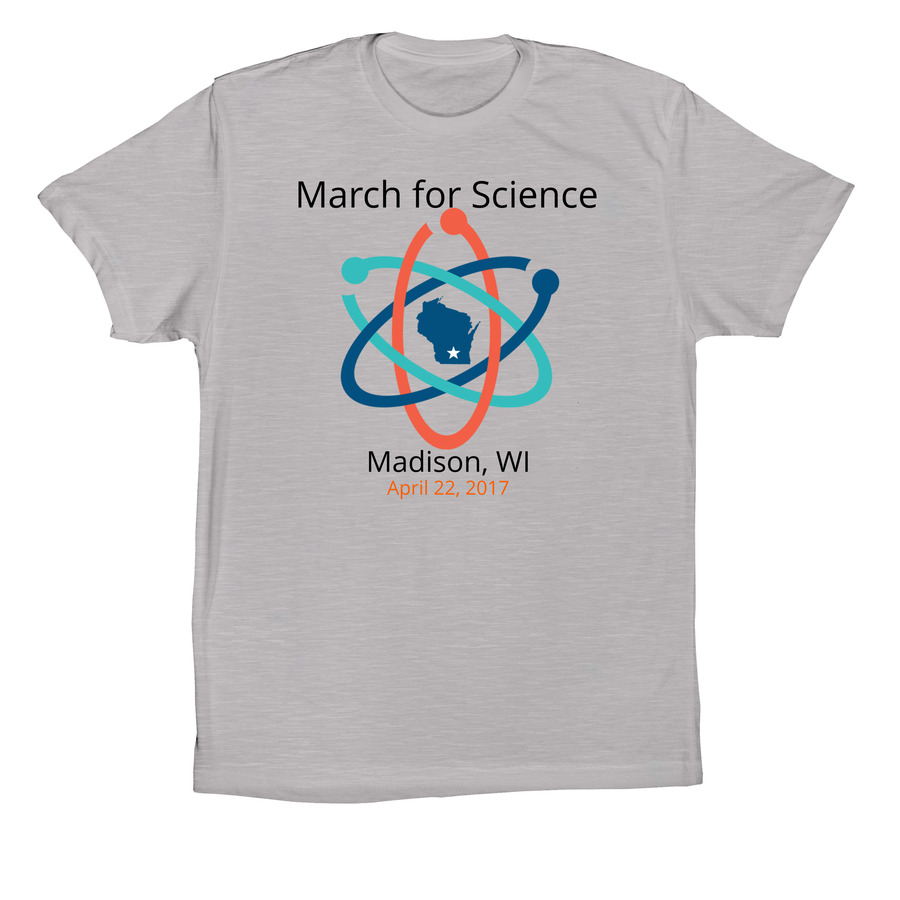
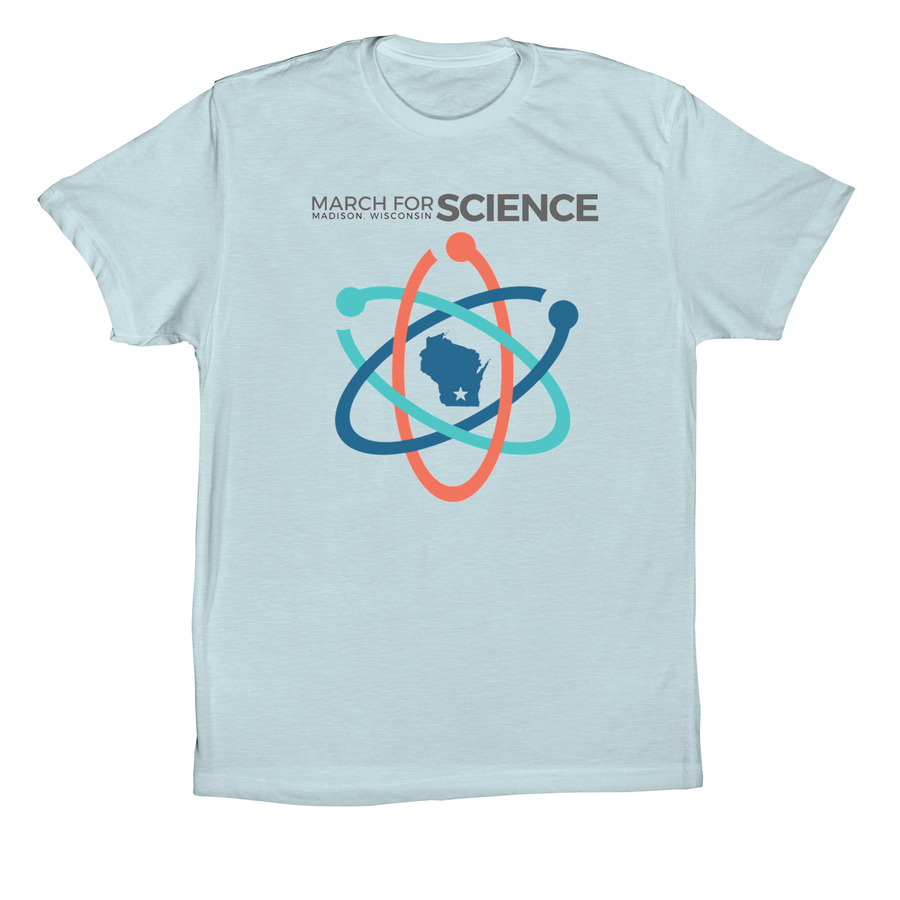
enable donation/merchandise

diff --git a/_includes/how_to_support.html b/_includes/how_to_support.html
@@ -48,7 +48,7 @@ The Madison March for Science obtained fiscal sponsorship through the <a target=
                 <h5 class="text-faded" style="color:#4d4d4f">
                 Official March for Science t-shirts may be purchased from Bonfire. The proceeds from sales of these shirts (minus the cost of the shirt and printing) go directly towards expenses associated with the march.
                 </h5>
-                <a target="_blank" href="https://www.bonfire.com/march-for-science-madison-vol3/">
+                <a target="_blank" href="https://www.bonfire.com/sciencemarchmsn/">
                 <img src="img/bonfire_shirt.jpg" style="display:block; margin: auto; width:35%; vertical-align:middle; padding: 20px">
                 </a>
                 <div></div>

diff --git a/_includes/nav.html b/_includes/nav.html
@@ -15,6 +15,9 @@
         <div class="collapse navbar-collapse" id="bs-example-navbar-collapse-1">
             <ul class="nav navbar-nav navbar-right">
                 <li>
+                    <a class="page-scroll" href="donate.html">Support the March</a>
+                </li>
+                <li>
                     <a class="page-scroll" href="index.html#about">About</a>
                 </li>
                 <li>

diff --git a/_includes/header.html b/_includes/header.html
@@ -12,7 +12,7 @@
                 <span style="color:#f16047;font-size:3.2rem">April 22,
 2017</span><br>Madison, Wisconsin
             </h2>
-            <!-- <a href="#fundraiser" class="btn btn-primary btn-xl page-scroll" target="_blank">Donate for Science!</a> -->
+            <a href="donate.html" class="btn btn-primary btn-xl page-scroll" target="_blank">Donate for Science!</a>
         </div>
     </div>
 </header>
